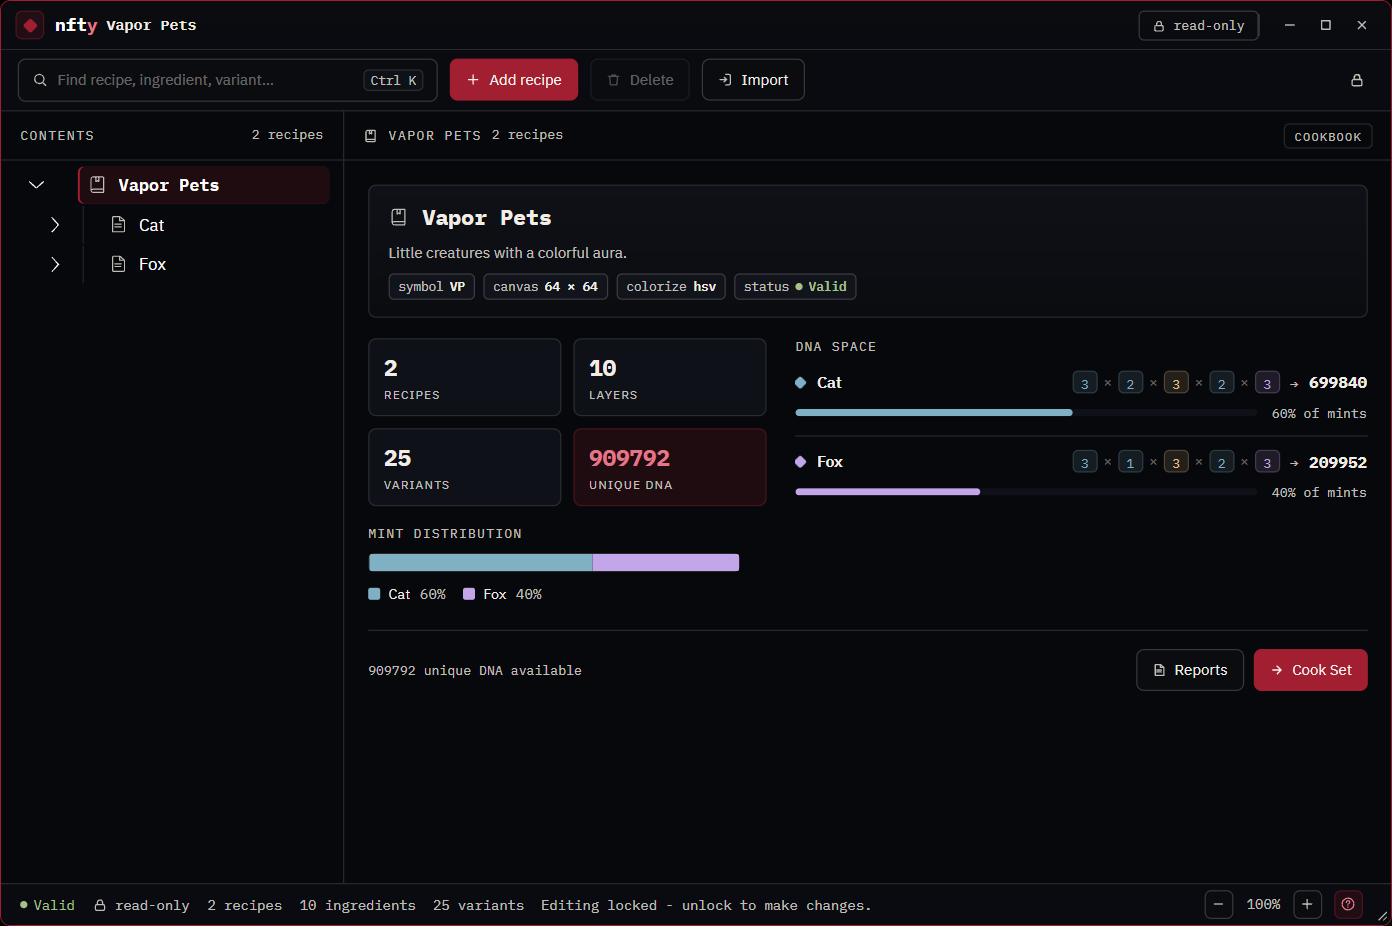
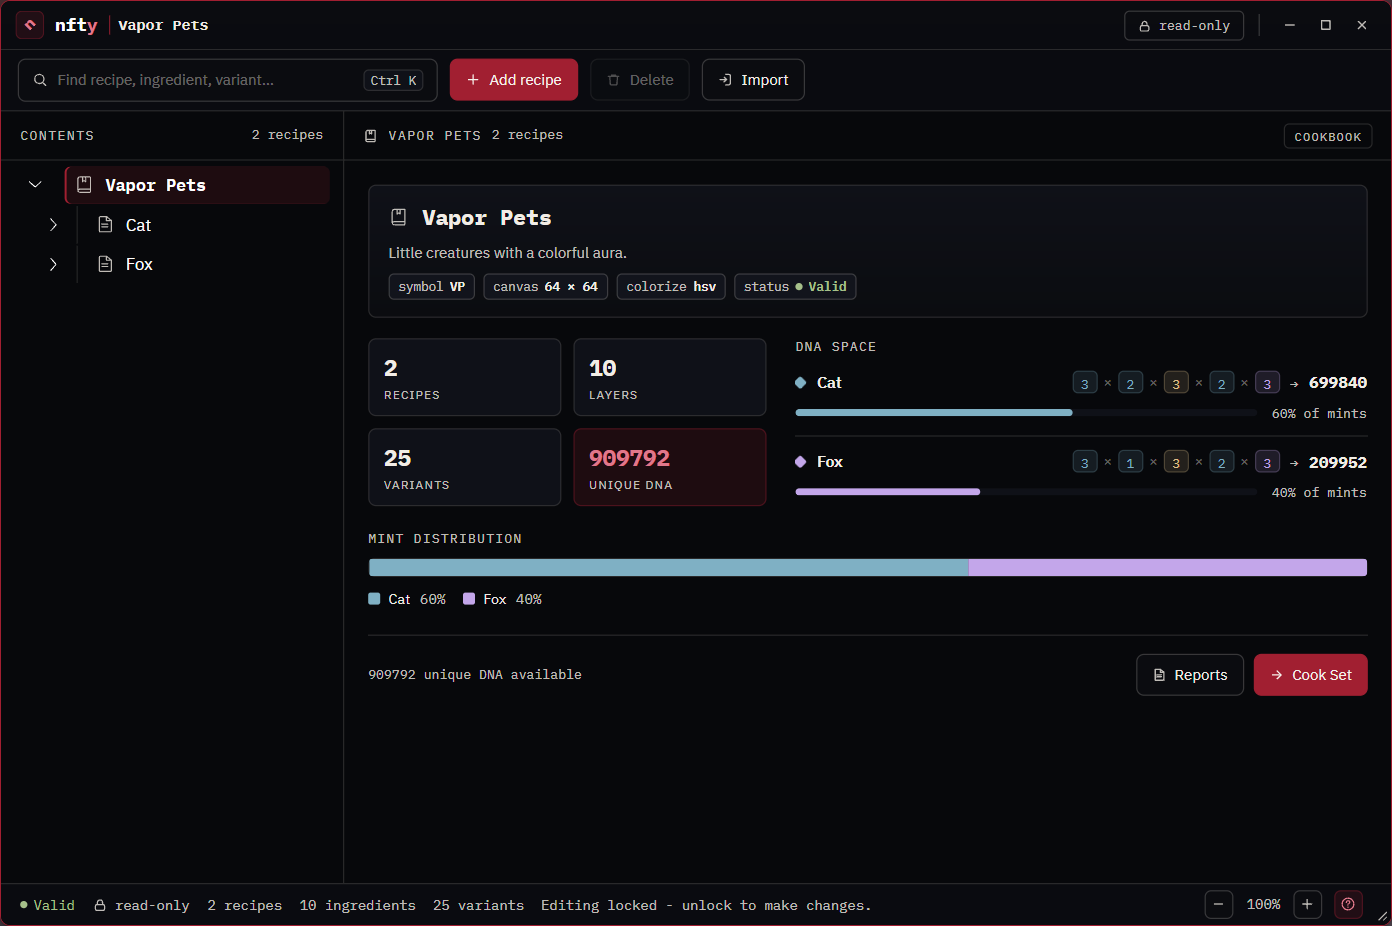
fix(gui): the mint bar spans the panel, and a caret is one drawing turned
Two the annotated frames did not catch, both reported from the running app.

The mint distribution bar was still half width. The first cut sized each
segment by a constant multiplier against a 310px track; stretching it fixed
the multiplier, and the bar still stopped halfway across, because the block
lived inside the LEFT column of the two-column body — so "full width" meant
full width of the metrics beside it. Both cuts read correctly in the
markup: HorizontalAlignment="Stretch" was doing exactly what it says, in a
container half the size of the one that mattered. It is its own full-width
row under both columns now. A share of the whole collection is not a fact
about the left-hand metrics.

And the tree's right-pointing carets were half again the size of the
down-pointing ones in the same column. Fluent draws ONE chevron and turns
it 90 degrees for the expanded state, stretching the glyph to fit its box —
so narrowing the box to 10 while leaving it 13 tall scaled the collapsed
">" to the 13 and the expanded "v" to the 10. Squaring the box makes the
two orientations the same drawing by construction rather than by two
numbers agreeing. Measured 10x5 against 7x13 before, 11x6 against 6x11
after, and both tests measure ink off a rendered frame rather than reading
the setters back — asserting "the box is square" would only restate the
fix.

The manual's fourteen full-window figures were regenerated from the running
[…]

diff --git a/tests/Nfty.App.Tests/TreeChevronTests.cs b/tests/Nfty.App.Tests/TreeChevronTests.cs
@@ -1,0 +1,111 @@
+using System;
+using System.Linq;
+using System.Runtime.InteropServices;
+using Avalonia;
+using Avalonia.Controls;
+using Avalonia.Controls.Primitives;
+using Avalonia.Headless;
+using Avalonia.Media.Imaging;
+using Avalonia.Headless.XUnit;
+using Avalonia.Styling;
+using Avalonia.Threading;
+using Avalonia.VisualTree;
+using Nfty.App.Imaging;
+using Nfty.App.Services;
+using Nfty.App.ViewModels;
+using Xunit;
+
+namespace Nfty.App.Tests;
+
+/// <summary>
+/// A collapsed caret and an expanded one are the same drawing, turned.
+/// </summary>
+/// <remarks>
+/// <para>Fluent draws ONE chevron and rotates it 90 degrees for the expanded state, stretching the
+/// glyph to fit its box. So the box's ASPECT decides the glyph's size: in a 10 wide by 13 tall box
+/// the collapsed "&gt;" was scaled to the 13 and the expanded "v" to the 10, and a tree column showed
+/// right-pointing carets half again the size of the down-pointing ones directly above them. Nothing
+/// in the markup says that — both states share one style and one number each for width and height.
+/// </para>
+///
+/// <para>Which is why this measures INK off a rendered frame rather than reading the setters back.
+/// A test that asserted "the box is square" would restate the fix; this asserts the thing the fix is
+/// for, and would still hold if Fluent switched to two separate glyphs.</para>
+/// </remarks>
+public class TreeChevronTests
+{
+    /// <summary>Every light pixel in a rectangle, as a bounding box — the caret is the only ink in
+    /// the gutter it sits in, so a brightness floor finds it without knowing its shape.</summary>
+    private static (int W, int H) Ink(WriteableBitmap frame, PixelRect rect)
+    {
+        int stride = rect.Width * 4;
+        var pixels = Marshal.AllocHGlobal(stride * rect.Height);
+        try
+        {
+            frame.CopyPixels(rect, pixels, stride * rect.Height, stride);
+            int minX = int.MaxValue, minY = int.MaxValue, maxX = int.MinValue, maxY = int.MinValue;
+            for (int y = 0; y < rect.Height; y++)
+            for (int x = 0; x < rect.Width; x++)
+            {
+                int i = y * stride + x * 4;
+                if (Marshal.ReadByte(pixels, i) > 90 && Marshal.ReadByte(pixels, i + 1) > 90
+                                                     && Marshal.ReadByte(pixels, i + 2) > 90)
+                {
+                    minX = Math.Min(minX, x); maxX = Math.Max(maxX, x);
+                    minY = Math.Min(minY, y); maxY = Math.Max(maxY, y);
+                }
+            }
+            return minX == int.MaxValue ? (0, 0) : (maxX - minX + 1, maxY - minY + 1);
+        }
+        finally { Marshal.FreeHGlobal(pixels); }
+    }
+
+    [AvaloniaFact]
+    public void A_collapsed_caret_is_the_same_size_as_an_expanded_one()
+    {
+        var nav = new FakeNav();
+        var dialogs = new FakeDialogs();
+        var session = new CookBookSession();
+        using var explorer = new ExplorerViewModel(ExplorerViewModelTests.TwoRecipeBook(), nav, dialogs,
+            new ImageBridge(), ExplorerViewModelTests.EditorFactory(nav),
+            ExplorerViewModelTests.CookFactory(dialogs), session, new FilePickerService(),
+            ExplorerViewModelTests.LooseEditorFactory(nav, session, dialogs), new StatusService());
+
+        var view = new Views.ExplorerView { DataContext = explorer };
+        var window = new Window { RequestedThemeVariant = ThemeVariant.Dark, Content = view, Width = 1180, Height = 720 };
+        window.Show();
+        Dispatcher.UIThread.RunJobs();
+
+        // Two carets in opposite states. The book opens expanded and its recipes closed, so the tree
+        // shows both without the test having to click anything - which also means a change that
+        // collapsed the root by default would fail here loudly rather than quietly measuring one
+        // state twice.
+        var chevrons = view.GetVisualDescendants().OfType<ToggleButton>()
+            .Where(t => t.Name == "PART_ExpandCollapseChevron" && t.Bounds.Width > 0)
+            .ToList();
+        var expanded = chevrons.FirstOrDefault(t => t.IsChecked == true);
+        var collapsed = chevrons.FirstOrDefault(t => t.IsChecked != true);
+        Assert.NotNull(expanded);
+        Assert.NotNull(collapsed);
+
+        using var frame = window.CaptureRenderedFrame()!;
+        double scale = window.RenderScaling;
+
+        PixelRect Box(Visual v)
+        {
+            var a = v.TranslatePoint(new Point(0, 0), view)!.Value;
+            var b = v.TranslatePoint(new Point(v.Bounds.Width, v.Bounds.Height), view)!.Value;
+            return new PixelRect((int)(a.X * scale), (int)(a.Y * scale),
+                                 (int)((b.X - a.X) * scale), (int)((b.Y - a.Y) * scale));
+        }
+
+        var (dw, dh) = Ink(frame, Box(expanded!));
+        var (cw, ch) = Ink(frame, Box(collapsed!));
+        Assert.True(dw > 0 && cw > 0, "no caret ink found");
+
+        // Mirrored, not merely similar: a turned drawing swaps its extents exactly. 1px of slack for
+        // anti-aliasing on the diagonal strokes, which is all the difference there should ever be.
+        Assert.True(Math.Abs(dw - ch) <= 1 && Math.Abs(dh - cw) <= 1,
+            $"expanded ink is {dw}x{dh} and collapsed is {cw}x{ch}; turning one should give the other");
+    }
+}

diff --git a/tests/Nfty.App.Tests/MintDistributionLayoutTests.cs b/tests/Nfty.App.Tests/MintDistributionLayoutTests.cs
@@ -1,0 +1,62 @@
+using System.Linq;
+using Avalonia;
+using Avalonia.Controls;
+using Avalonia.Headless.XUnit;
+using Avalonia.Threading;
+using Avalonia.VisualTree;
+using Nfty.App.ViewModels;
+using Xunit;
+
+namespace Nfty.App.Tests;
+
+/// <summary>
+/// The mint distribution bar spans the whole panel, not one column of it.
+/// </summary>
+/// <remarks>
+/// <para>It began as a 310px track sized by a constant multiplier, which stopped a third of the way
+/// across. Stretching it fixed the multiplier but not the width, because the block still lived
+/// inside the LEFT column of the two-column body — so "full width" meant full width of the metrics
+/// beside it, and the bar still ended halfway across a panel whose other two sections run edge to
+/// edge. Both cuts looked correct in the markup: <c>HorizontalAlignment="Stretch"</c> was doing
+/// exactly what it says, in a container half the size of the one that mattered.</para>
+///
+/// <para>So the assertion is about the PANEL, measured from a laid-out frame: the bar starts where
+/// the metrics start and ends where the DNA space ends. Stated as a relation between the three
+/// rather than as a pixel width, because the body is star-sized and the number changes with the
+/// window.</para>
+/// </remarks>
+public class MintDistributionLayoutTests
+{
+    [AvaloniaFact]
+    public void The_bar_runs_the_full_width_of_the_panel()
+    {
+        using var book = ExplorerViewModelTests.TwoRecipeBook();
+        var view = new Views.CookBookDetailView
+        {
+            DataContext = new CookBookDetailViewModel(book, () => { }, () => { }),
+        };
+        var window = new Window { Content = view, Width = 1180, Height = 720 };
+        window.Show();
+        Dispatcher.UIThread.RunJobs();
+
+        var bar = view.GetVisualDescendants().OfType<Border>().First(b => b.Classes.Contains("distbar"));
+
+        // The two sections it has to line up with, found by what they contain rather than by grid
+        // position, so moving a column does not silently retarget the measurement.
+        var metrics = view.GetVisualDescendants().OfType<TextBlock>()
+            .First(t => t.Text == "RECIPES").GetVisualAncestors().OfType<Border>()
+            .First(b => b.Classes.Contains("metric"));
+        var dnaHeading = view.GetVisualDescendants().OfType<TextBlock>().First(t => t.Text == "DNA SPACE");
+
+        double Left(Visual v) => v.TranslatePoint(new Point(0, 0), view)!.Value.X;
+        double Right(Visual v) => v.TranslatePoint(new Point(v.Bounds.Width, 0), view)!.Value.X;
+
+        Assert.True(Left(bar) <= Left(metrics) + 1,
+            $"the bar starts at {Left(bar)}, right of the metrics at {Left(metrics)}");
+
+        // The DNA rows are what actually reach the panel's right edge; the heading only labels them.
+        var dnaColumn = dnaHeading.GetVisualAncestors().OfType<StackPanel>().First();
+        Assert.True(Right(bar) >= Right(dnaColumn) - 1,
+            $"the bar ends at {Right(bar)}, short of the DNA space column at {Right(dnaColumn)}");
+    }
+}

diff --git a/docs/manual/reference/explorer.md b/docs/manual/reference/explorer.md
@@ -13,13 +13,13 @@ selection.
 | **Search** | Filters the tree. ++ctrl+k++ focuses it. |
 | **Add ...** | Adds a child of whatever is selected: a Recipe to the book, an Ingredient to a Recipe, a Variant to an Ingredient. Its label follows the selection. |
 | **Delete** | Removes the selected item. |
-| **Import** | Brings in a loose file. |
-| **Padlock** *(far right)* | Toggles the edit lock. |
+| **Import** | Brings a loose `.rcp` or `.igt` into the open CookBook. A layer goes into the Recipe you have selected. |
 
 ## The edit lock
 
-A CookBook opens **read-only**. The padlock unlocks adding, deleting and reordering; the chip in the
-title bar and the message in the status bar always say which state you are in.
+A CookBook opens **read-only**. The chip in the title bar says which state you are in, and **the chip
+is also the switch** — click it to unlock adding, deleting and reordering. Unlocked, it turns carmine
+and reads **editing**. The status bar says the same thing in words.
 
 The lock governs *structure*. Opening the Ingredient Editor and painting is not gated by it.
 

diff --git a/docs/manual/how-to/kitchen.md b/docs/manual/how-to/kitchen.md
@@ -25,6 +25,18 @@ With a Kitchen open you also get:
 - the Ingredient Editor can borrow loose Ingredients from it as
   [reference layers](line-layers-up.md)
 
+## Pull a part into a CookBook
+
+Open the CookBook, unlock editing, and press **Import** in the toolbar. Pick a `.rcp` or an `.igt`
+from the Kitchen folder.
+
+- A **Recipe** joins the book, weighted at the average of the recipes already in it.
+- An **Ingredient** goes into the Recipe you have **selected** — a layer belongs to one Recipe, so
+  select it first. With only the book selected, nfty says so rather than guessing.
+
+The file is copied in. Editing the layer in the CookBook does not change the loose `.igt` it came
+from, so the same Hat can be a guaranteed item in one project and a chase item in another.
+
 !!! tip "Nothing to keep in sync"
 
     Membership is worked out by **looking at the folder**, not from a list nfty maintains. Drop a

diff --git a/docs/manual/how-to/reorder-layers.md b/docs/manual/how-to/reorder-layers.md
@@ -5,7 +5,7 @@ everything.
 
 ## Move a layer
 
-1. Unlock editing (the padlock in the toolbar). Grips appear at the left of each row:
+1. Unlock editing (click the **read-only** chip in the title bar). Grips appear at the left of each row:
 
     ![The layer table unlocked, showing drag grips](../images/layers-unlocked-light.png#only-light)
     ![The layer table unlocked, showing drag grips](../images/layers-unlocked-dark.png#only-dark)

diff --git a/docs/manual/get-started/first-collection.md b/docs/manual/get-started/first-collection.md
@@ -31,7 +31,7 @@ it.
 The Explorer opens with your empty book. Look at the top right: it says **read-only**, and the status
 bar at the bottom says editing is locked.
 
-**Click the padlock** at the right of the toolbar. The chip changes to **editing**.
+**Click the read-only chip itself.** It turns carmine and reads **editing**.
 
 This lock exists so you cannot rearrange a book by accident. You will use it every session.
 

diff --git a/docs/manual/how-to/rarer-trait.md b/docs/manual/how-to/rarer-trait.md
@@ -5,7 +5,7 @@ as often as one at weight 1. They do not need to add up to anything.
 
 ## Change a variant's weight
 
-1. Unlock editing (the padlock in the toolbar).
+1. Unlock editing (click the **read-only** chip in the title bar).
 2. Select the layer in the tree and click the **pencil** to open the editor.
 3. Select the variant on the left.
 4. Type a new number into **Weight**, or use the steppers.
